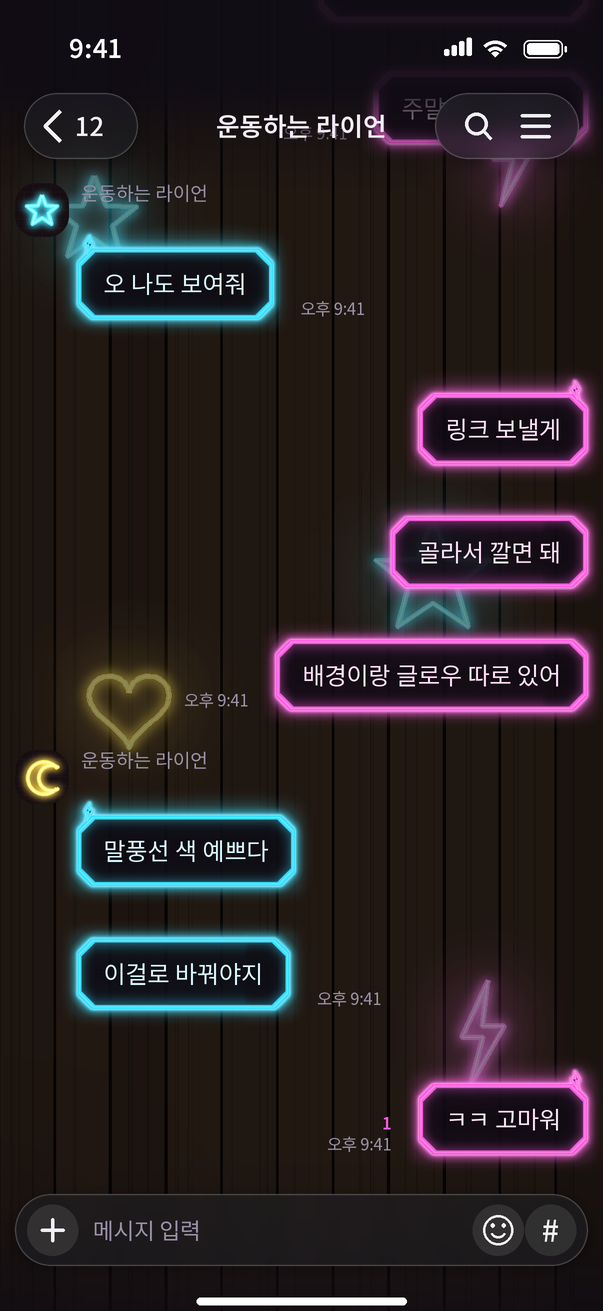
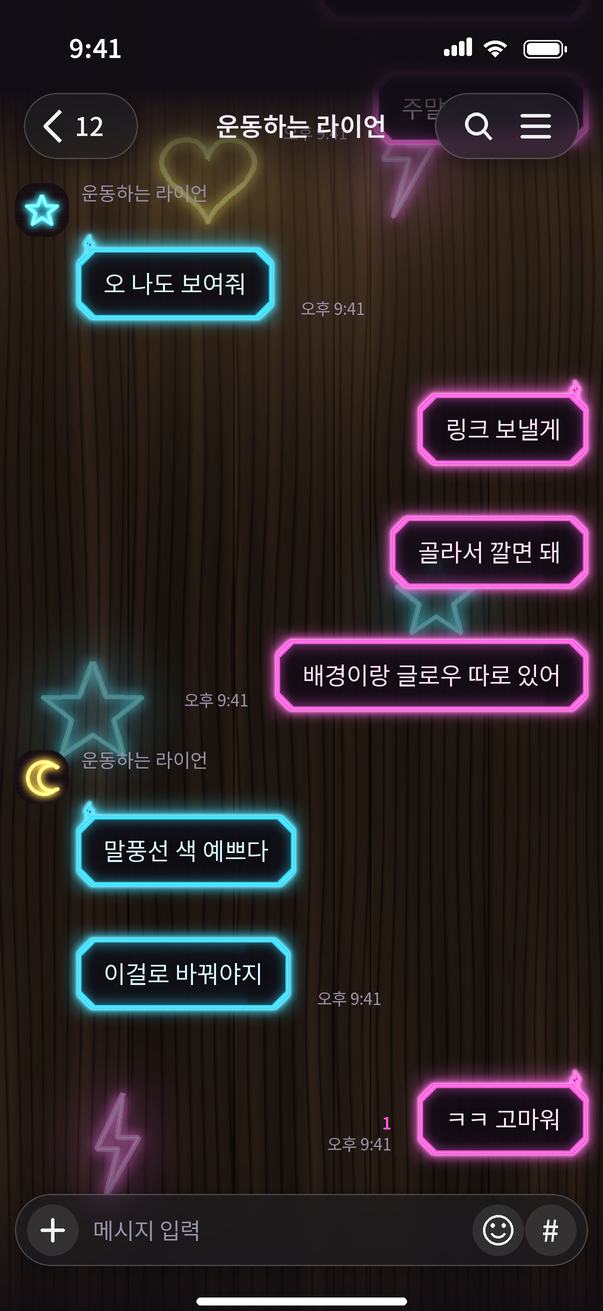
네온사인 v4 판자 벽을 나이테 결과 천장 조명으로 다시 그린다
곧은 선으로 그은 결이 바코드·철창으로 보였다. wood() 의 곧은결을 빌리고 채팅방·잠금화면에만
가운데 위에서 떨어지는 따뜻한 빛을 얹는다. 목록은 조명 없이 결만 깐다.

diff --git a/tools/scenes.py b/tools/scenes.py
@@ -2134,18 +2134,15 @@ def neonwall(spec, w, h):
             d.rectangle([0, y + sh_ * 0.78, w, y + sh_], fill=shade(k * 0.55))
             y += sh_
     elif wall == 'plank':
-        # 바 안쪽의 세로 나무 판자(네온사인 v4). 판마다 색이 조금 다르고 세로 결이 몇 줄 지난다.
-        # 결도 화면 끝까지 곧게 내려서 어디서 잘려도 같다
-        pw = 46 * unit
-        x = 0.0
-        while x < w:
-            k = rnd.uniform(0.85, 1.1)
-            d.rectangle([x + 1.5 * unit, 0, x + pw - 1.5 * unit, h], fill=shade(k))
-            for _ in range(rnd.randint(2, 4)):
-                gx = x + rnd.uniform(0.15, 0.85) * pw
-                d.line([(gx, 0), (gx, h)], fill=shade(k * rnd.uniform(0.75, 0.88)),
-                       width=max(1, int(rnd.uniform(0.8, 2.2) * unit)))
-            x += pw
+        # 바 안쪽의 세로 나무 판자(네온사인 v4). 결을 곧은 선으로 그었더니 바코드·철창으로 보여서
+        # 나이테 위상으로 결을 내는 wood() 를 빌린다. 곧은결(figure=False)에 옹이가 없어야
+        # 세로로만 흐르는 무늬라 목록에서 어디서 잘려도 같다
+        img = wood(('wood', spec[1], spec[1],
+                    dict(dark=o.get('grain_dark', '#070403'), light=o.get('grain_light', '#8A6446'),
+                         planks=o.get('planks', 6), knots=0, figure=False,
+                         ring=o.get('ring', 0.022), contrast=o.get('contrast', 0.55),
+                         seed=rnd.randint(0, 1 << 30), blur=0.4)), w, h)
+        d = ImageDraw.Draw(img)
     elif wall == 'tile':
         # 지하 바의 정사각 타일(네온사인 v3). 칸마다 윤기가 달라야 한 판으로 안 보인다
         ts, gap = 38 * unit, 3 * unit
@@ -2193,6 +2190,16 @@ def neonwall(spec, w, h):
     img = ImageChops.screen(img, wash)
     img = _light(img, lay, 5 * unit, 1.8)
     img = ImageChops.screen(img, core)
+
+    # 바 천장 등. 위에서 떨어진 따뜻한 빛이 판자 위쪽에 고인다
+    if o.get('lamp'):
+        pool = Image.new('L', (w, h), 0)
+        for lx in o['lamp']:
+            ImageDraw.Draw(pool).ellipse([w * (lx - 0.42), -h * 0.22, w * (lx + 0.42), h * 0.30], fill=255)
+        pool = pool.filter(ImageFilter.GaussianBlur(w * 0.16))
+        lamp = gen.rgb(o.get('lamp_color', '#FFB066'))
+        img = ImageChops.screen(img, Image.merge('RGB', [pool.point(lambda v, c=c: v * c * o.get('lamp_gain', 0.22) // 255)
+                                                          for c in lamp]))
 
     # 가장자리 어둠. 없으면 벽이 화면 끝까지 고르게 밝아 조명이 아니라 벽지로 보인다
     vig = Image.new('L', (w, h), 0)

diff --git a/tools/themes.py b/tools/themes.py
@@ -1900,13 +1900,15 @@ _NEON_BASE = dict(bg='#100C14', bg_deep='#0A070D', surface='#1A1520', pressed='#
 
 def _neon_theme(no, variant, style, material, recv, send, recv_text, send_text, accent_dim,
                 signs, note, slug='neon', family='네온사인', face=('#3A1F1B', '#140C0B'),
-                surface='brick', lit=False):
+                surface='brick', lit=False, room=None):
     """네온사인 한 벌. 받은 쪽과 보낸 쪽이 서로 다른 네온 색이고, 벽의 낙서도 그 색을 쓴다.
 
     v2·v3 는 같은 말풍선 네 가지에 색 조합과 벽(surface)만 바꾼다. face 는 벽 면색과 틈 색이다.
     """
+    # room 은 채팅방·잠금화면에만 얹는 조명 같은 것. 목록은 위아래로 달라지면 머리 띠마다 층이 져서 뺀다
     wall = lambda count, dim: ('neonwall', face[0], face[1],
-                               dict(signs=signs, count=count, dim=dim, dim_to='#000000', wall=surface))
+                               dict(signs=signs, count=count, dim=dim, dim_to='#000000', wall=surface,
+                                    **(room or {})))
     return dict(_NEON_BASE, key='%s%d' % (slug, no), name='%s %s' % (family, variant), note=note,
                 family=family, variant=variant, char_style=style, material=material,
                 accent=send, accent_dim=accent_dim,
@@ -1970,7 +1972,8 @@ THEMES += [
 ]
 
 # v4 는 말풍선부터 새로 그렸다(charbubble 의 팔각·꺾쇠·밑줄·두 가닥). 벽은 바 안쪽 나무 판자
-_PLANK = dict(slug='neonbar', family='네온사인 v4', face=('#3A2A20', '#0C0806'), surface='plank', lit=True)
+_PLANK = dict(slug='neonbar', family='네온사인 v4', face=('#3A2A20', '#0C0806'), surface='plank', lit=True,
+              room=dict(lamp=[0.5], lamp_gain=0.3, grain_light='#A8744A', contrast=0.7))
 
 THEMES += [
     _neon_theme(309, '팔각', 'neon_octagon', 'tube', '#35E0FF', '#FF5CE1', '#D9F8FF', '#FFE0F8',
